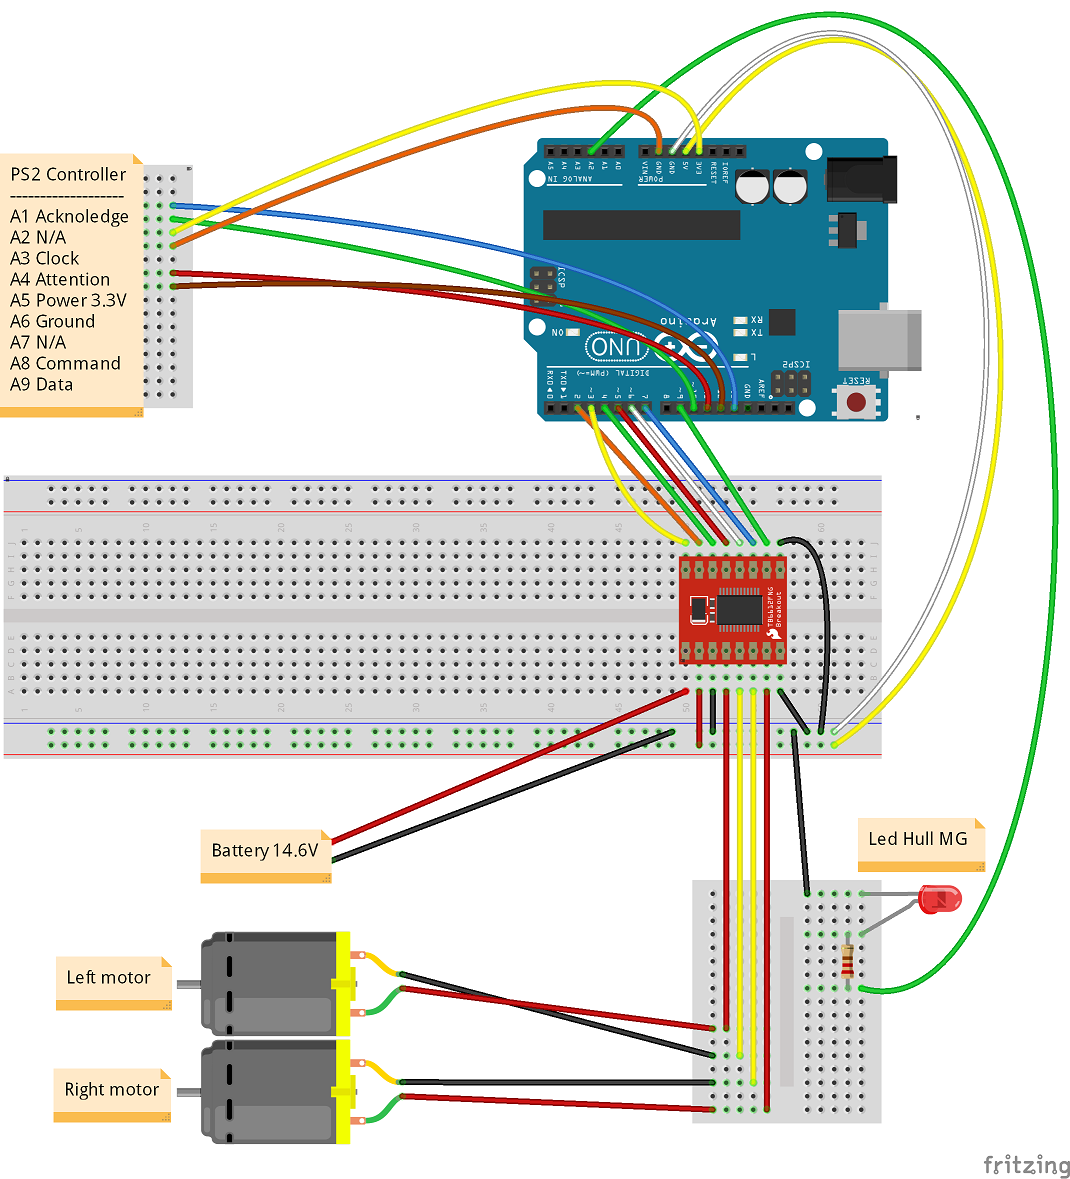
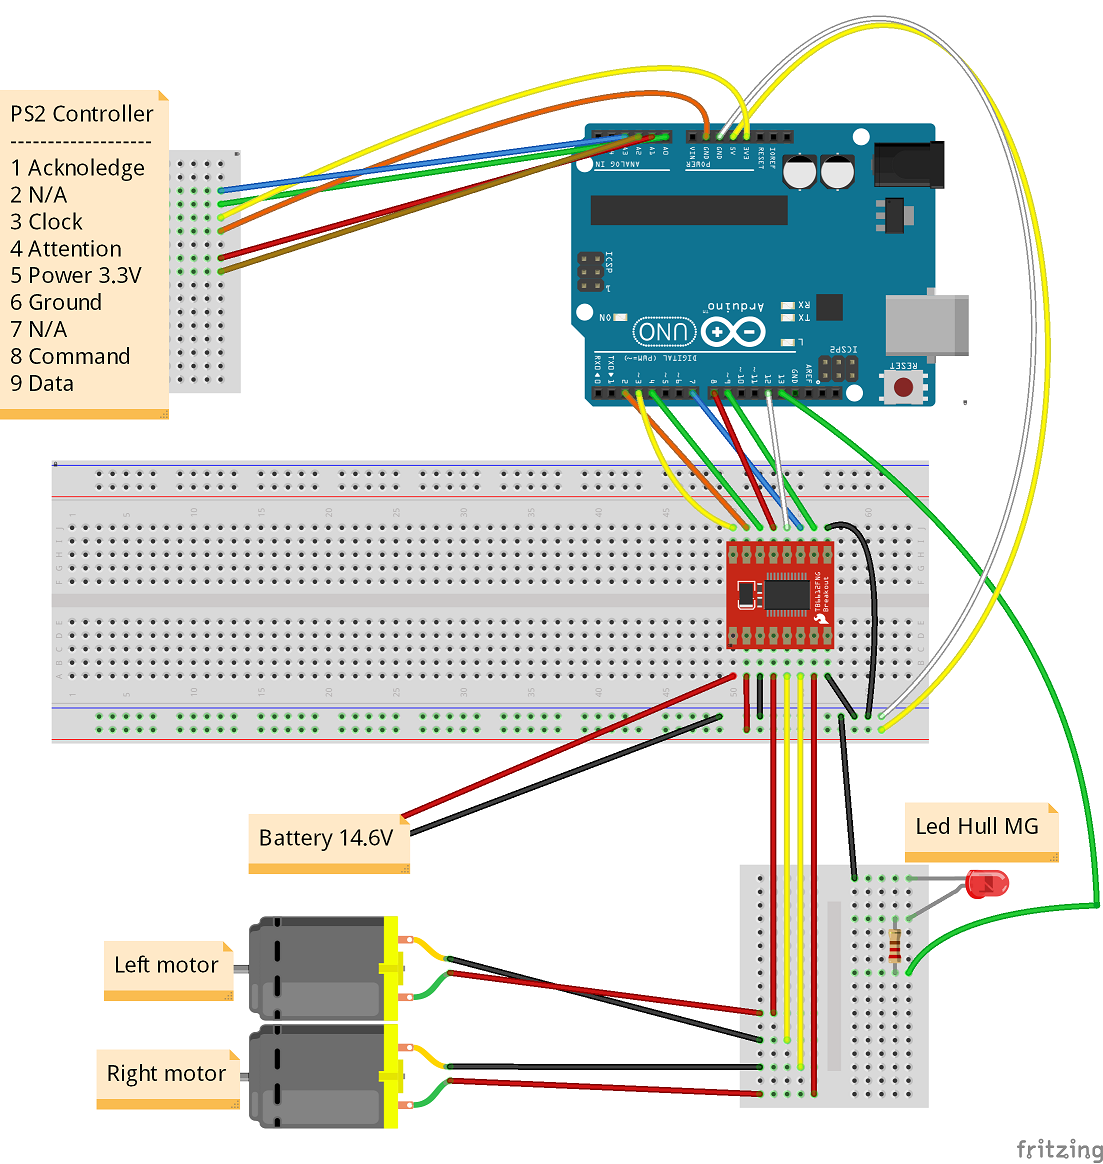
Change pinout to free pwms

diff --git a/src/pinout.h b/src/pinout.h
@@ -2,10 +2,10 @@
 #define PINOUT_H
 
 /* PS2 pins */
-const int PS2_PIN_DAT    = 12;
-const int PS2_PIN_CMD    = 11;
-const int PS2_PIN_SEL    = 10;
-const int PS2_PIN_CLK    = 13;
+#define PS2_PIN_DAT A2
+#define PS2_PIN_CMD A1
+#define PS2_PIN_SEL A0
+#define PS2_PIN_CLK A3
 const bool PS2_PRESSURES = true;
 const bool PS2_RUMBLE    = true;
 
@@ -13,12 +13,12 @@ const bool PS2_RUMBLE    = true;
 const int TB_PWMA = 3;
 const int TB_AIN2 = 2;
 const int TB_AIN1 = 4;
-const int TB_STBY = 5;
-const int TB_BIN1 = 6;
+const int TB_STBY = 8;
+const int TB_BIN1 = 12;
 const int TB_BIN2 = 7;
 const int TB_PWMB = 9;
 
 /* Led hull MG pin */
-#define LED_HULLMG_PIN  A2
+#define LED_HULLMG_PIN 13
 
 #endif
